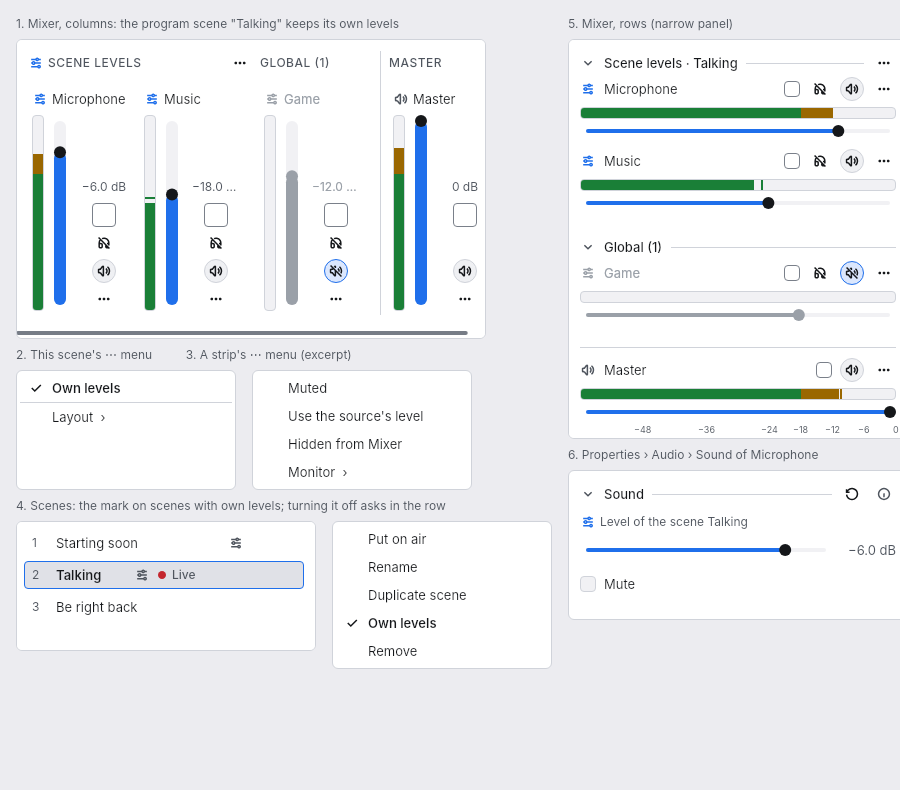
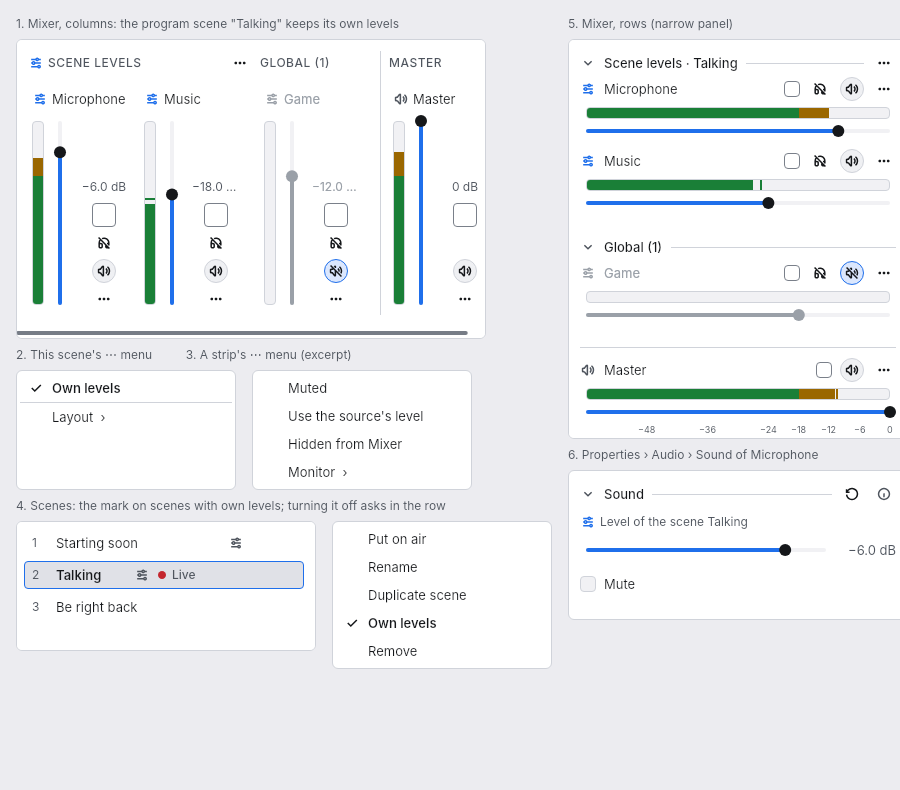
Mixer: one slider track thickness; the level bar spans the fader's track [skip ci]
A new token size.slider.track (4) is the track of Slider and VSlider alike;
VSlider used size.meter.bar. The level bar (and the master's loudness bar)
is inset by half the knob, as the fader's track is, so both run the same
length in rows and columns; the rows' dB scale follows the track.

Claude-Session: https://claude.ai/code/session_01JNUCDSEaTFubtyqxYZVgC9

diff --git a/crates/rbs-ui/src/tokens.rs b/crates/rbs-ui/src/tokens.rs
@@ -151,6 +151,7 @@ pub const LENGTHS: &[&str] = &[
     "size.meter.scale-line",
     "size.meter.readout",
     "size.meter.loudness",
+    "size.slider.track",
     "size.meter.target",
     "size.mixer.strip",
     "size.mixer.splitter",

diff --git a/docs/specs/ui-design-system.md b/docs/specs/ui-design-system.md
@@ -84,7 +84,7 @@ One family (initial choice: Inter, with the OS UI font as fallback). Numbers in 
 | Windows | `size.window.w`=1440, `size.window.h`=900 (first-start main window), `size.window.min-w`=1280, `size.window.min-h`=720 (U11 minimum of the main window), `size.floating.w`=640, `size.floating.h`=420 (first size of a floating window), `size.settings.w`=920, `size.settings.h`=680 (first size of the Settings window), `size.caption.w`=46 (a window button on Windows, ADR-0071) |
 | Keyboard steps | `step.nudge`=8, `step.nudge-large`=128 (splitter move per arrow key, with Shift) |
 | Text | `size.tracking.caps`=0.5 (letter spacing of uppercase section titles) |
-| Meters | `size.meter.peak`=2 (width of the peak hold marker in a level bar), `size.meter.bar`=12 (thickness of the level bar, its short side, so the low, mid and high zones read as bands), `size.meter.scale`=9 and `size.meter.scale-line`=12 (font size and row height of the dB scale under the Mixer faders; smaller than `type.caption`, and not a text style because those cannot go below 11), `size.meter.readout`=56 (fixed width of a level readout beside a fader, enough for "−60.0 dB" / "Silent"), `size.meter.loudness`=6 (thickness of the master's loudness bar, ADR-0092), `size.meter.target`=2 (thickness of the target mark across it), `size.mixer.strip`=104 (width of one Mixer column strip: meter, fixed-width VSlider and control column; the name elides; the VSlider must not grow horizontally), `size.mixer.controls`=48 (columns control column: compact level text above the icon buttons), `size.mixer.min-h`=172 (minimum columns-strip height: name row plus the five control slots; a shorter Mixer scrolls), `size.mixer.splitter`=6 (reserved). Not themeable |
+| Meters | `size.meter.peak`=2 (width of the peak hold marker in a level bar), `size.meter.bar`=12 (thickness of the level bar, its short side, so the low, mid and high zones read as bands), `size.meter.scale`=9 and `size.meter.scale-line`=12 (font size and row height of the dB scale under the Mixer faders; smaller than `type.caption`, and not a text style because those cannot go below 11), `size.meter.readout`=56 (fixed width of a level readout beside a fader, enough for "−60.0 dB" / "Silent"), `size.meter.loudness`=6 (thickness of the master's loudness bar, ADR-0092), `size.meter.target`=2 (thickness of the target mark across it), `size.slider.track`=4 (thickness of a Slider's and a VSlider's track, the same in both orientations), `size.mixer.strip`=104 (width of one Mixer column strip: meter, fixed-width VSlider and control column; the name elides; the VSlider must not grow horizontally), `size.mixer.controls`=48 (columns control column: compact level text above the icon buttons), `size.mixer.min-h`=172 (minimum columns-strip height: name row plus the five control slots; a shorter Mixer scrolls), `size.mixer.splitter`=6 (reserved). Not themeable |
 | Elevation | `elevation.0` (flat), `elevation.1` (popovers), `elevation.2` (dialogs); subtle, no heavy shadows |
 | Motion | `motion.fast`=120 ms, `motion.normal`=180 ms, `motion.easing.standard`; all motion disabled under "reduce motion" |
 | Delays | `motion.hover-open`=400 ms (hover time before an auto-hide edge tab slides its panel out; not motion, so it stays under "reduce motion", where the panel appears without sliding) |

diff --git a/docs/specs/themes.md b/docs/specs/themes.md
@@ -38,7 +38,7 @@ Out of scope, later changes: themes in `.rbspack` packs; font files; a curated a
 | RBS menu | `size.app-menu.w` / `.categories` / `.list-h` | logical px | 480 to 960 / 120 to 320 / 240 to 720 |
 | Motion | `motion.fast` / `motion.normal` | ms | 120 to 200 (U12; reduce motion turns motion off) |
 
-`THEMEABLE` lists them with metadata for the editor: name, label in words, group, value kind, bounds. Not themeable, refused in a theme: `color.state.live`, `color.text.on-live` (U12), `color.caption.close-hover`, `color.caption.close-text` (the Windows close button as the OS draws it, ADR-0071), `size.caption.w`, `size.color.code`, `size.window.*`, `size.floating.*`, `size.settings.*`, `size.field.compact`, `size.field.drag-step`, `size.toggle.*`, `step.*`, `size.tracking.caps`, `size.meter.peak`, `size.meter.bar`, `size.meter.scale`, `size.meter.scale-line`, `size.meter.readout`, `size.meter.loudness`, `size.meter.target`, `size.mixer.strip`, `size.mixer.splitter`, `size.mixer.controls`, `size.mixer.min-h`, `size.transition.*`, `size.toast.rail`, `size.toast.max` (the widest a notice may be), `delay.*` (`delay.toast` is how long a notice stays, `delay.toast-tick` how often its seconds step, `delay.find-fallback` and `delay.find-mark` for Settings search).
+`THEMEABLE` lists them with metadata for the editor: name, label in words, group, value kind, bounds. Not themeable, refused in a theme: `color.state.live`, `color.text.on-live` (U12), `color.caption.close-hover`, `color.caption.close-text` (the Windows close button as the OS draws it, ADR-0071), `size.caption.w`, `size.color.code`, `size.window.*`, `size.floating.*`, `size.settings.*`, `size.field.compact`, `size.field.drag-step`, `size.toggle.*`, `step.*`, `size.tracking.caps`, `size.meter.peak`, `size.meter.bar`, `size.meter.scale`, `size.meter.scale-line`, `size.meter.readout`, `size.meter.loudness`, `size.meter.target`, `size.slider.track`, `size.mixer.strip`, `size.mixer.splitter`, `size.mixer.controls`, `size.mixer.min-h`, `size.transition.*`, `size.toast.rail`, `size.toast.max` (the widest a notice may be), `delay.*` (`delay.toast` is how long a notice stays, `delay.toast-tick` how often its seconds step, `delay.find-fallback` and `delay.find-mark` for Settings search).
 
 The built-in token file gains `[font] "font.family" = []` (empty: the OS UI font); `tokens.toml` becomes format 2 and `Tokens::parse` still reads format 1 files (given the empty family), so `RBS_TOKENS` files keep working.
 
